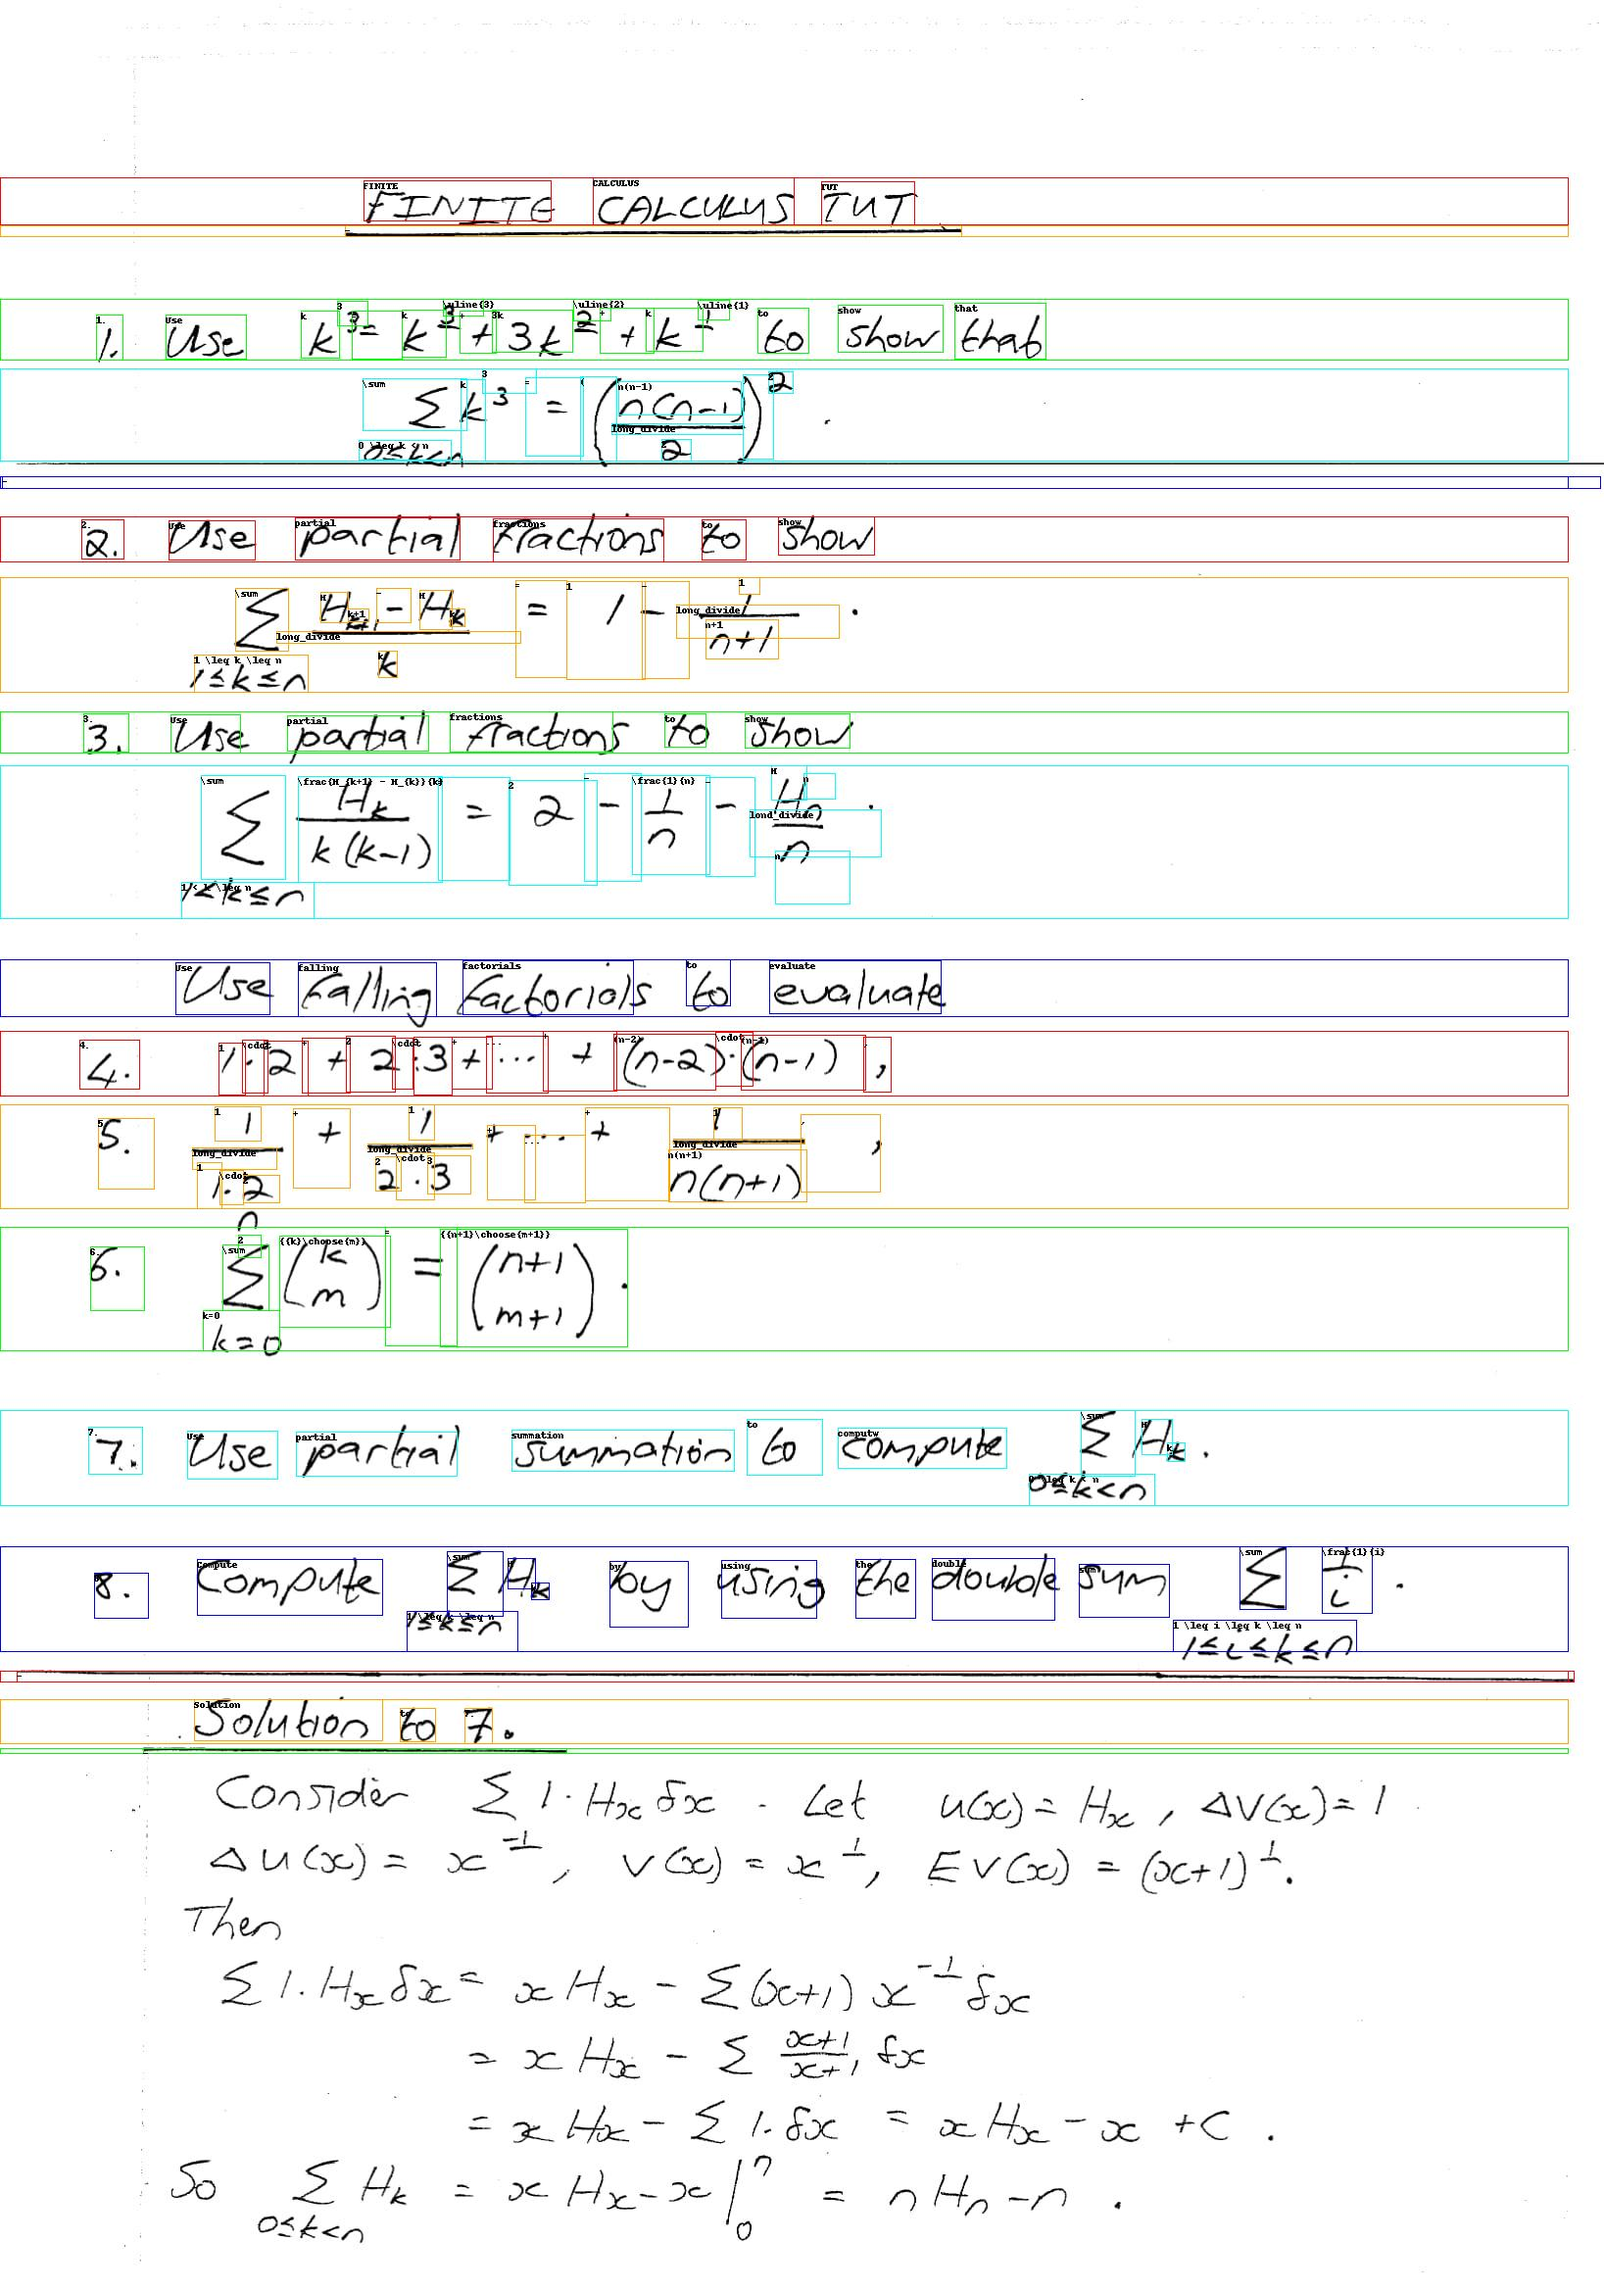
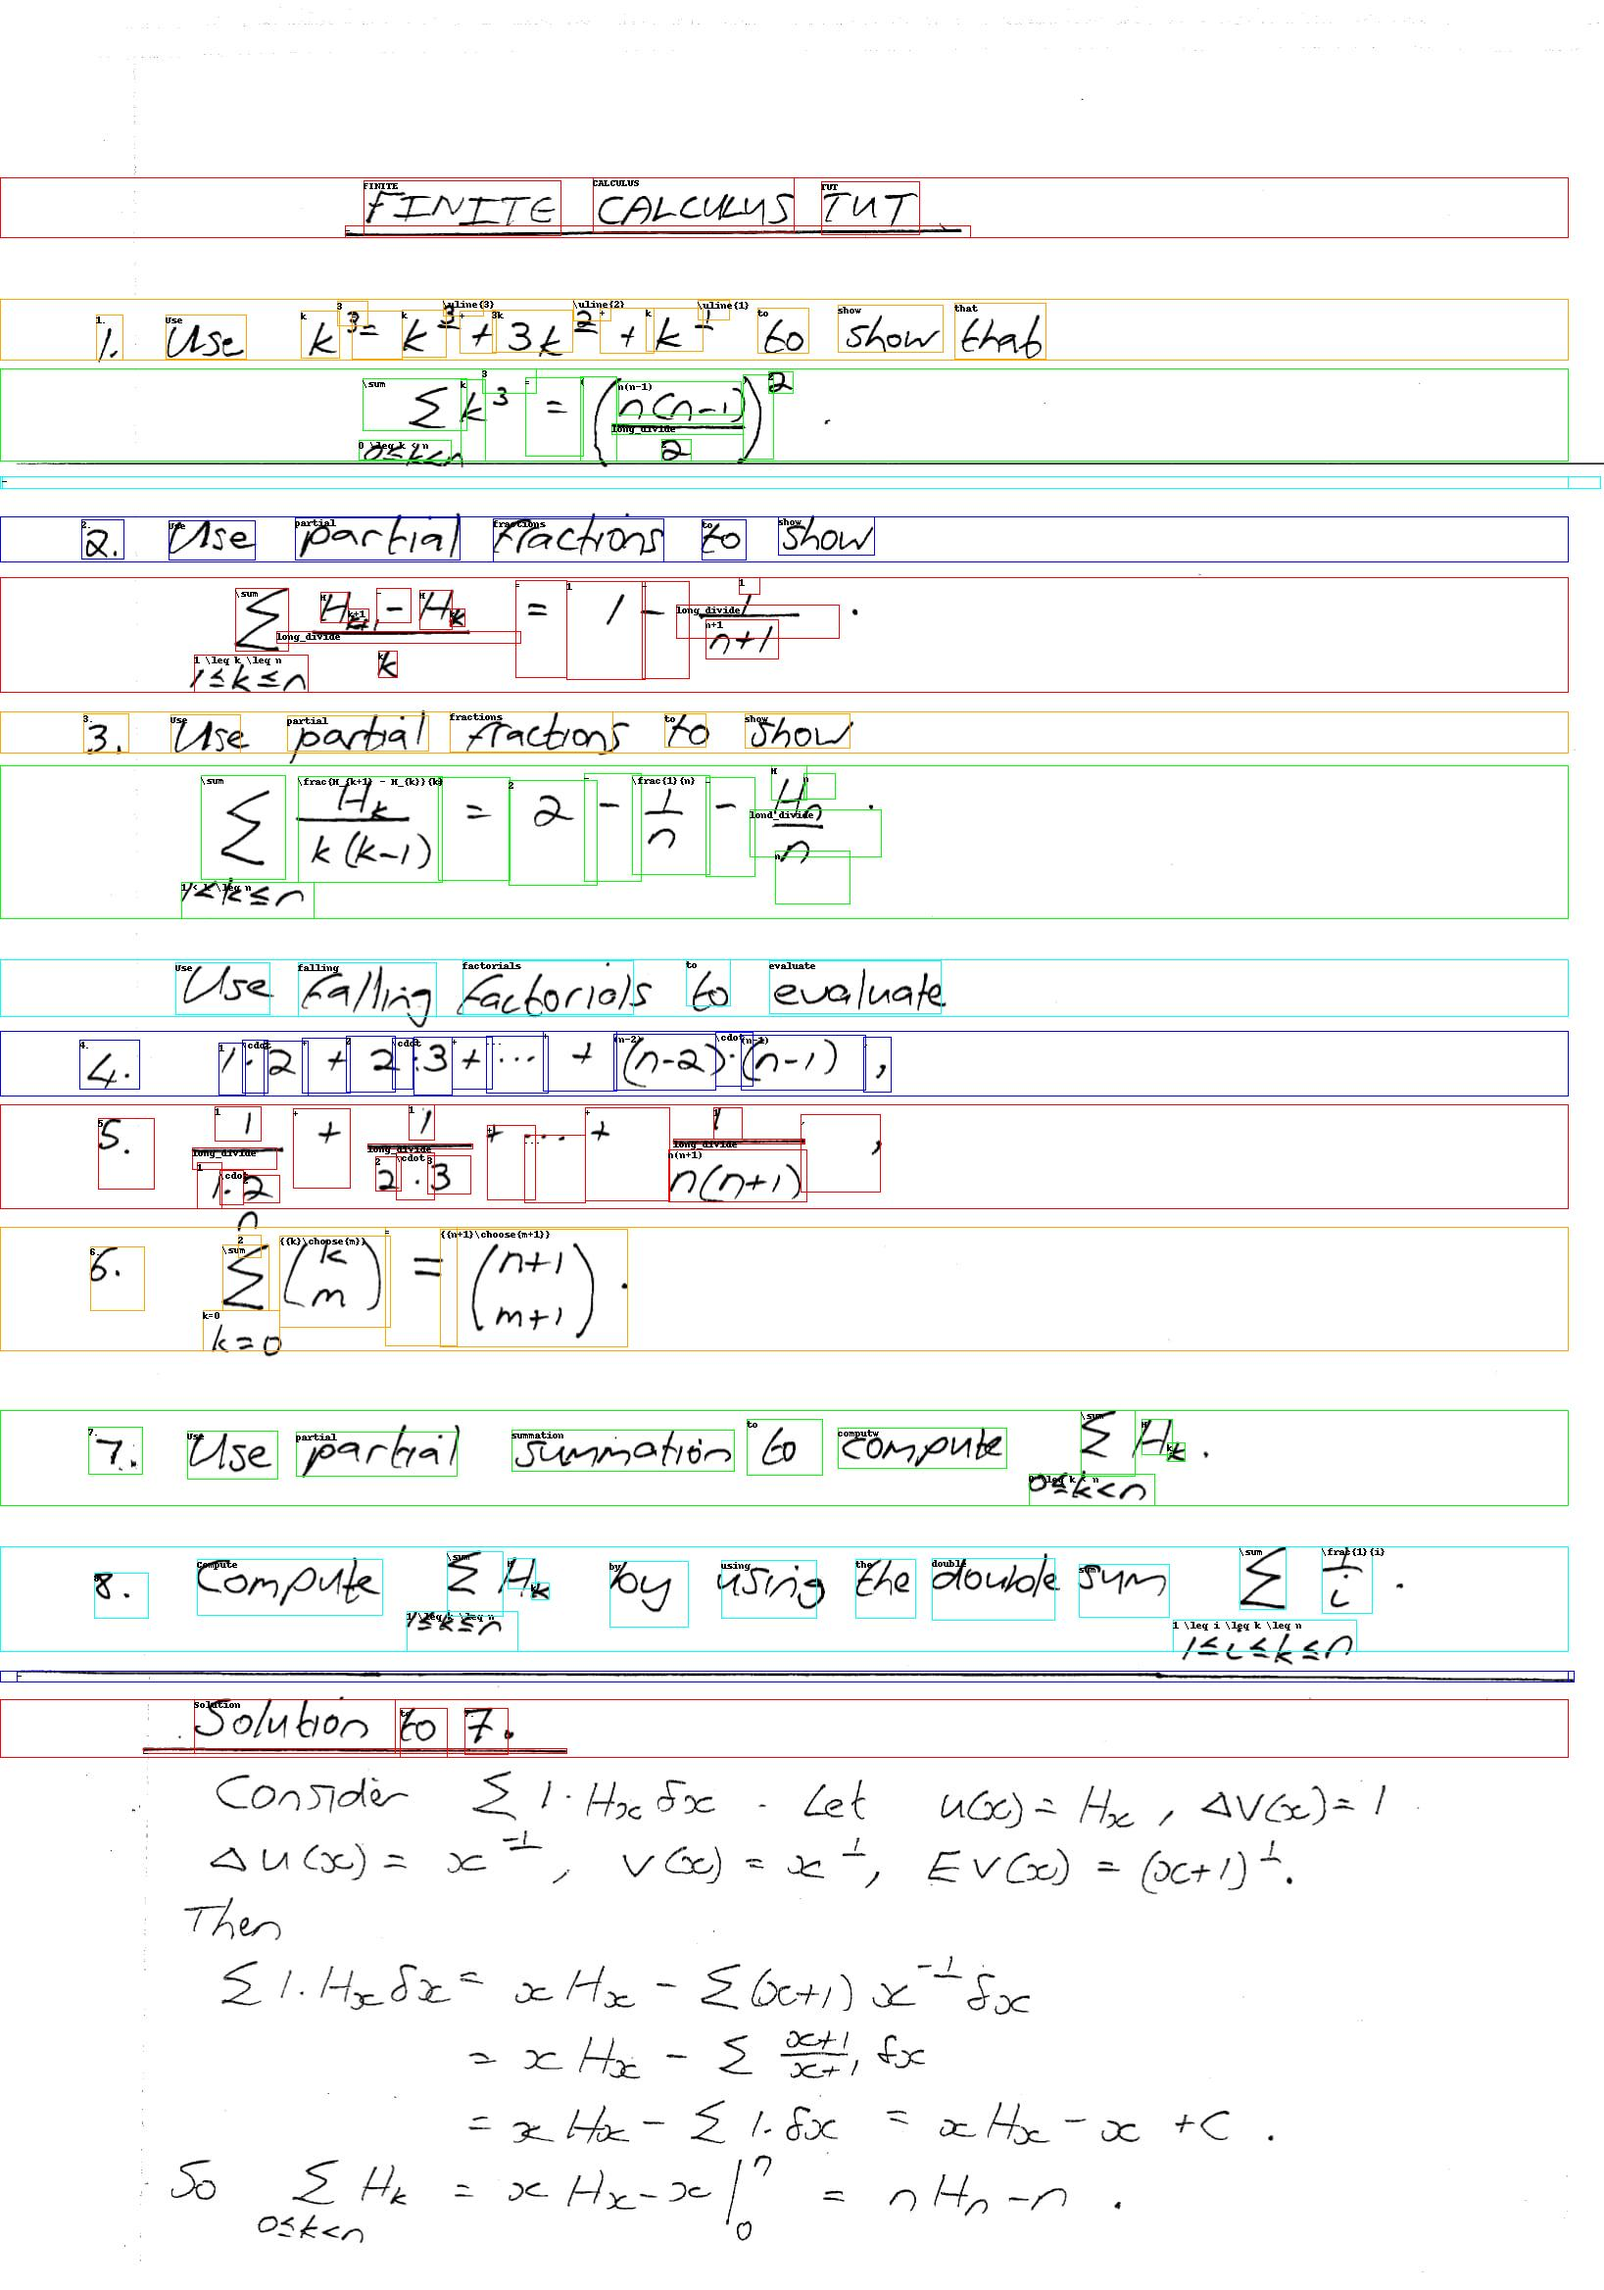
$.getJSON

diff --git a/boxes/box.js b/boxes/box.js
@@ -3,7 +3,12 @@ var boxPaint;
 var boxDrags;
 var boxState; //0: drag, 1: move, 2: add, 3: delete
 //var bxJSON = "[]";
+var bxArray;
 $(document).ready(function() {
+	$.getJSON("parsed.json", function(json) {
+		bxArray = json;
+		//console.log(json); // this will show the info it in firebug console
+	});
 	boxState = $('input[name=bxch]:checked').val();
 	var bxst = $('#boxHolder').offset();
 
@@ -79,7 +84,7 @@ $(document).ready(function() {
 	});
 
 	$('#loadJSONb').click(function () {
-		var bxArray = JSON.parse(bxJSON);
+		//var bxArray = JSON.parse(bxJSON);
 		for (var i=0; i<bxArray.length; i++) {
 			var l = bxArray[i].left;// + bxst.left;
 			var t = bxArray[i].top;// + bxst.top;

diff --git a/latexGen/test.tex b/latexGen/test.tex
@@ -9,17 +9,17 @@
 \begin{document}
 \section{Heading on Level 1 (section)}
 \color{red}\[\ushort{W}\]
-\color{lime}\[\ushort{W \quad W \quad W^{W} \quad WW^{W} \quad WW^{W} \quad WW^{W} \quad WW}\]
-\color{cyan}\[\ushort{WW^{W} \quad WWW \quad W}\]
-\color{red}\[\ushort{W \quad WW \quad W}\]
-\color{orange}\[\ushort{WW_{W} \quad W_{W}W_{W} \quad WWWW}\]
-\color{lime}\[\ushort{W \quad WW}\]
-\color{cyan}\[\ushort{WWWWWWW_{W}W}\]
-\color{blue}\[\ushort{WW}\]
-\color{red}\[\ushort{W \quad WWWWWWWWWWWW}\]
-\color{orange}\[\ushort{W \quad W^{W}_{WWW} \quad WWW^{W}W \quad W_{W} \quad WW \quad W}\]
-\color{lime}\[\ushort{W \quad W^{WW} \quad W}\]
-\color{cyan}\[\ushort{W \quad WWW^{W} \quad W}\]
-\color{blue}\[\ushort{WW^{W} \quad W \quad W \quad W \quad WWW \quad W}\]
-\color{orange}\[\ushort{W \quad W}\]
+\color{orange}\[\ushort{W \quad W \quad W^{W} \quad WW^{W} \quad WW^{W} \quad WW^{W} \quad WW}\]
+\color{lime}\[\ushort{WW^{W} \quad WWW \quad W}\]
+\color{blue}\[\ushort{W \quad WW \quad W}\]
+\color{red}\[\ushort{WW_{W} \quad W_{W}W_{W} \quad WWWW}\]
+\color{orange}\[\ushort{W \quad WW}\]
+\color{lime}\[\ushort{WWWWWWW_{W}W}\]
+\color{cyan}\[\ushort{WW}\]
+\color{blue}\[\ushort{W \quad WWWWWWWWWWWW}\]
+\color{red}\[\ushort{W \quad W^{W}_{WWW} \quad WWW^{W}W \quad W_{W} \quad WW \quad W}\]
+\color{orange}\[\ushort{W \quad W^{WW} \quad W}\]
+\color{lime}\[\ushort{W \quad WWW^{W} \quad W}\]
+\color{cyan}\[\ushort{WW^{W} \quad W \quad W \quad W \quad WWW \quad W}\]
+\color{red}\[\ushort{W \quad W}\]
 \end{document}
